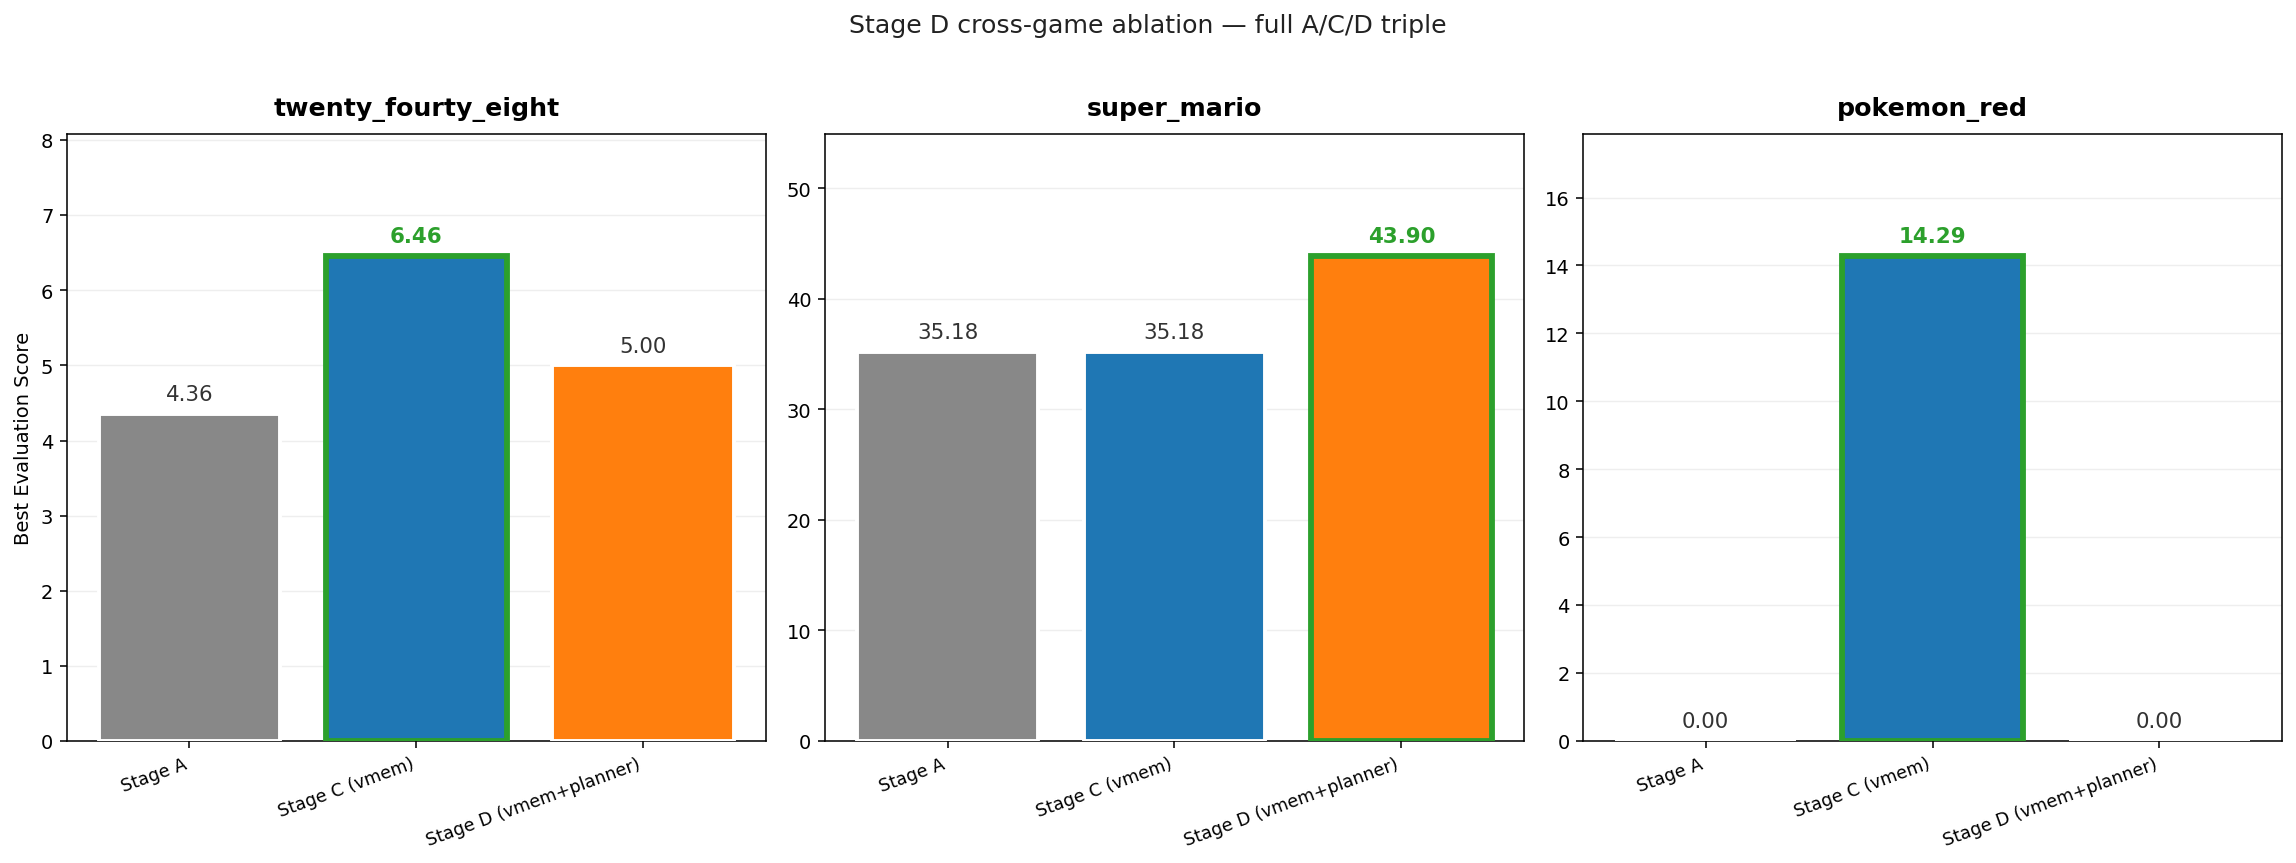
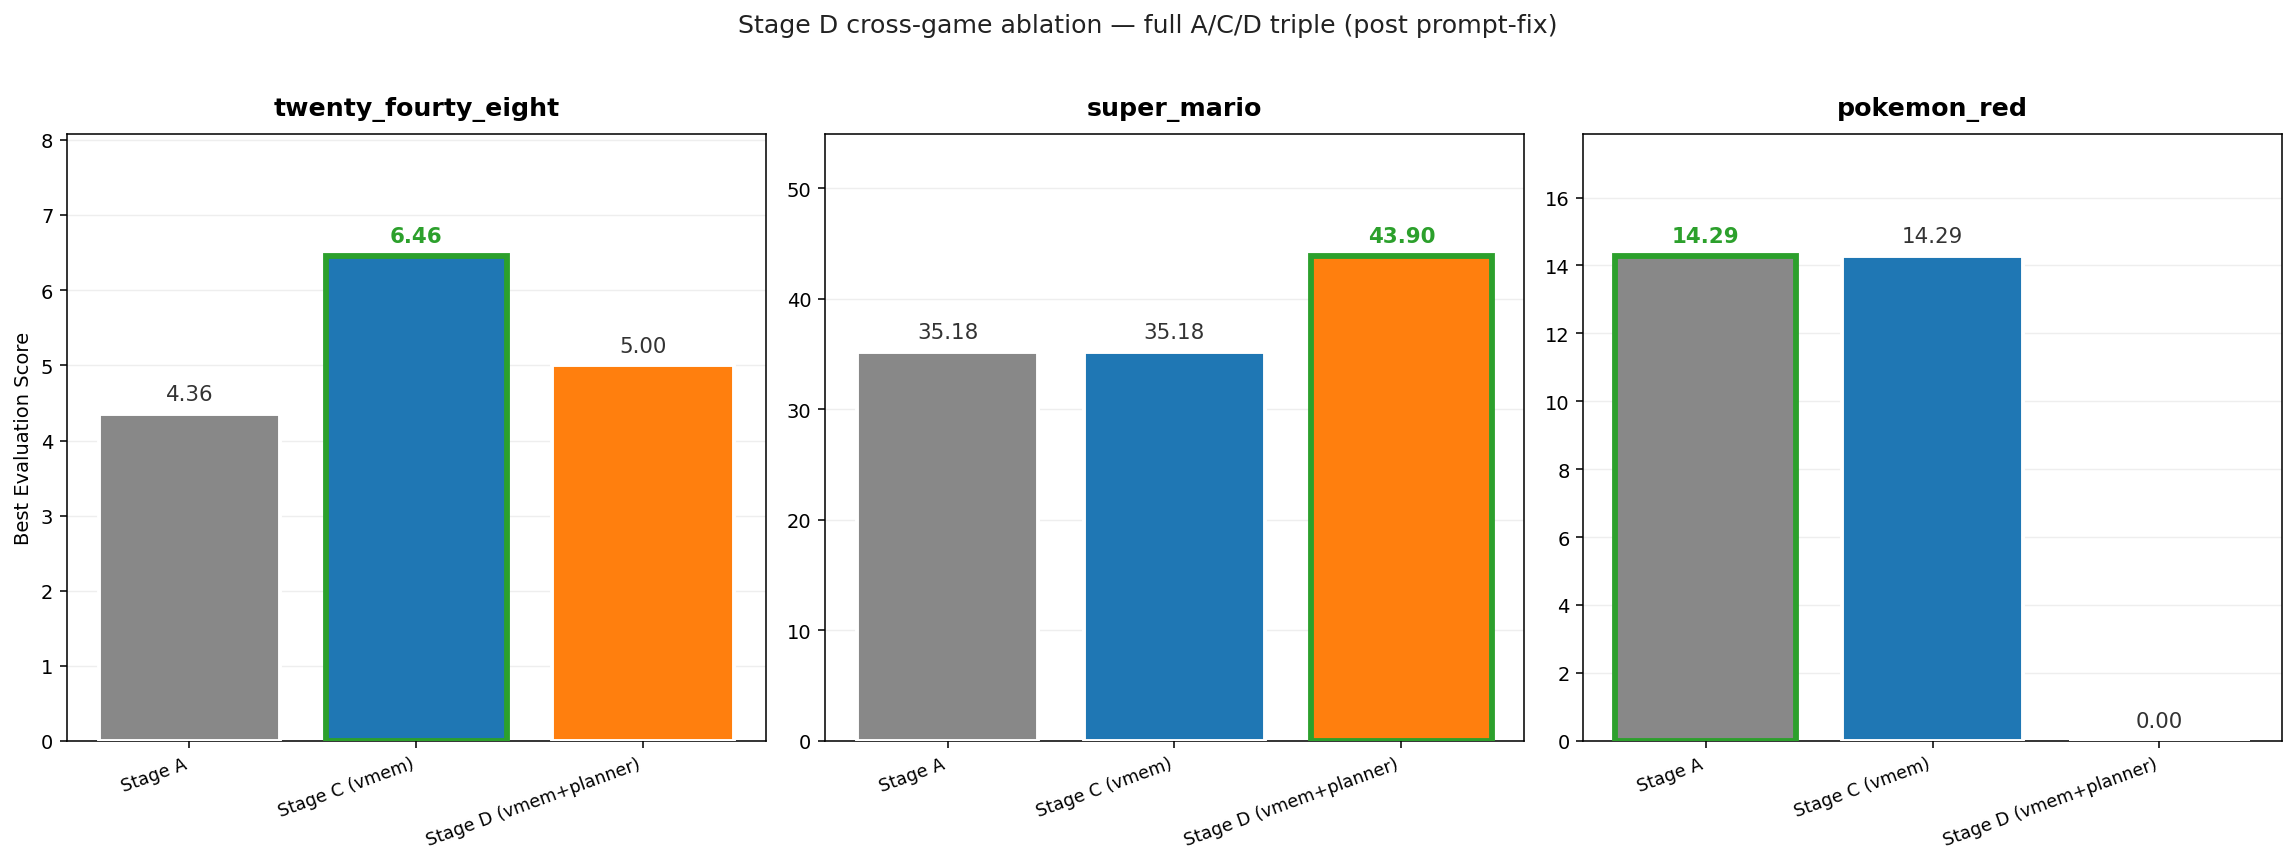
experiments(stage-d): final v6 cross-game scoreboard — pokemon prompt-fix unlock
Final pokemon ablation lands. Stage A (gemma_stage_a, post warp-fix +
exit-vs-staircase prompt hint) reaches 14.29 with n=2 identical reproducibility.
Stage D (gemma with planner) crashes to 0.00 with n=2 identical — the planner
actively breaks pokemon, mirroring the 2048 regression pattern.

Final cross-game verdict matrix:

| Game    | Stage A | Stage C   | Stage D | Best stage  |
|---------|---------|-----------|---------|-------------|
| 2048    | 4.36    | 6.46  ✅  | 5.00    | C (vmem)    |
| mario   | 35.18   | 35.18     | 43.90 ✅| D (planner) |
| pokemon | 14.29 ✅| 14.29     | 0.00    | A (neither) |

Each game has a different optimal stack — no overlap. vmem helps only 2048
(1 of 3); planner helps only mario (1 of 3). Per-game routing is now the
locked finding.

Adds:
- experiments/{harness_check_pokemon_v4, pokemon_check_v7}/gemma/results.jsonl
  — 2 iters each, identical scores
- docs/experiments/gemma/plots/stage_d_cross_game.png — regenerated with
  v4/v7 pokemon tags, all 9 cells filled

Also wires orak's experiments/autoresearch.py to the autoresearch package
v0.9.0's new retrospective module:
- ORAK_RETROSPECTIVE_DETECTORS = [silent_kill, triage_threshold_mismatch,
  eval_score_plateau] (3 of 5 builtins; skip bucketed_failure +
  gradient_collapse — orak doesn't emit rubric data or train models).
- ORAK_RETROSPECTIVE_KWARGS{"triage_threshold_mismatch":
  {"min_first_score_step": 150}} for pokemon's sparse-reward profile.
[…]

Changed region(s): [[0.6803, 0.241, 0.8968, 0.8737], [0.3402, 0.0, 0.6803, 0.0603]]

diff --git a/experiments/autoresearch.py b/experiments/autoresearch.py
@@ -43,9 +43,38 @@ from experiments.experiment_progress import (
     plot_progress,
 )
 
+# Post-iter retrospective hook (autoresearch >= 0.8.0). Detectors run after each
+# iter writes its results.jsonl row and surface failure-mode findings into the
+# next iter's description (warn) or stop the sweep (block). See PR #28 v6 audit
+# for the orak-side findings that motivated the package detectors.
+from autoresearch.retrospective import (
+    BUILTIN_DETECTORS,
+    Finding,
+    attach_findings_to_row,
+    audit_iter,
+    filter_by_severity,
+    format_markdown,
+)
+
 ROOT = Path(__file__).parent.parent
 CONFIGS_DIR = ROOT / "configs"
 AGENTS_DIR = ROOT / "agents"
+
+# Detectors relevant to orak's game-agent sweep loop. Skipped from the
+# package's BUILTIN_DETECTORS:
+#   - bucketed_failure: orak doesn't emit per-row JSONL rubric dumps
+#   - gradient_collapse: orak doesn't run an RL training loop (LLM is frozen)
+ORAK_RETROSPECTIVE_DETECTORS = [
+    BUILTIN_DETECTORS["silent_kill"],
+    BUILTIN_DETECTORS["triage_threshold_mismatch"],
+    BUILTIN_DETECTORS["eval_score_plateau"],
+]
+# Per-game tuning of detector thresholds. Pokemon's first scoring event lands
+# at step 100-150 so the global plateau-at-80 default would false-positive
+# every iter; bump it to 200 for pokemon. Other games keep the defaults.
+ORAK_RETROSPECTIVE_KWARGS = {
+    "triage_threshold_mismatch": {"min_first_score_step": 150},
+}
 
 # Marker to track auto-appended prompt hints (avoid duplication)
 AUTORESEARCH_MARKER = "# [autoresearch]"
@@ -928,6 +957,77 @@ def log_run_results(
     return results
 
 
+def _run_post_iter_retrospective(
+    *,
+    tag: str,
+    iteration: int,
+    games: list[str],
+    config_name: str | None,
+    log_path: Path | None,
+) -> list[Finding]:
+    """Run autoresearch retrospective detectors against the iter we just logged.
+
+    Per-game: load the row we just appended (last entry filtered by game) and
+    its prior history, run the orak-tuned detector panel, write findings into
+    `experiments/<tag>[/<config>]/retrospective_E<iter>_<game>.md`, mutate the
+    row in `results.jsonl` to attach summaries.
+
+    Returns the union of findings across all games so the caller can decide
+    whether to fold warns into the next iter's description (self-correcting
+    loop) or stop the sweep on a `block`.
+    """
+    findings_all: list[Finding] = []
+    rows = load_results(tag=tag, config_name=config_name)
+    out_dir = ROOT / "experiments" / tag
+    if config_name:
+        out_dir = out_dir / config_name
+
+    for game in games:
+        # Latest row for this game = the one we just logged.
+        per_game = [r for r in rows if r.get("game") == game]
+        if not per_game:
+            continue
+        cur_row = per_game[-1]
+        history = per_game[:-1]
+
+        findings = audit_iter(
+            results_row=cur_row,
+            log_path=log_path,
+            per_row_jsonl_path=None,  # orak doesn't emit per-row rubric dumps
+            history=history,
+            detectors=ORAK_RETROSPECTIVE_DETECTORS,
+            detector_kwargs=ORAK_RETROSPECTIVE_KWARGS,
+        )
+        if not findings:
+            continue
+
+        findings_all.extend(findings)
+        attach_findings_to_row(cur_row, findings)
+
+        # Write the markdown sibling for human review.
+        md_path = out_dir / f"retrospective_E{iteration}_{game}.md"
+        md_path.parent.mkdir(parents=True, exist_ok=True)
+        md_path.write_text(format_markdown(findings, iter_id=iteration))
+
+        # Re-write the row in results.jsonl with the attached findings. We
+        # have to rewrite the whole file since results are append-only JSONL.
+        results_file = out_dir / "results.jsonl"
+        if results_file.exists():
+            all_rows = [
+                json.loads(line) for line in results_file.read_text().splitlines() if line.strip()
+            ]
+            # Match by (game, experiment) — the most recent row for this game
+            # was just appended by log_experiment.
+            target_iter = cur_row.get("experiment")
+            for i, r in enumerate(all_rows):
+                if r.get("game") == game and r.get("experiment") == target_iter:
+                    all_rows[i] = cur_row
+                    break
+            results_file.write_text("\n".join(json.dumps(r) for r in all_rows) + "\n")
+
+    return findings_all
+
+
 @app.command()
 def log_run(
     run_id: str = typer.Option(..., help="Run ID from game_logs (e.g. 20260422_213143)"),
@@ -953,6 +1053,7 @@ def run(
     patience: int = typer.Option(5, help="Stop sweep if no game improves over best-so-far for N consecutive iterations (0 = disable)"),
     time_budget_min: float = typer.Option(0.0, help="Stop sweep after this many wall-clock minutes (0 = disable)"),
     config_name: str = typer.Option("", help="Per-config sub-dir (e.g. 'gemma' or 'qwen'). Empty = flat experiments/<TAG>/. Set to isolate parallel sweeps in experiments/<TAG>/<CONFIG_NAME>/."),
+    log_path: str = typer.Option("", "--log-path", help="Path to the sweep's stdout log file. Enables silent_kill / triage_threshold_mismatch retrospective detectors that need to grep log lines."),
 ):
     """Run the autoresearch optimisation loop."""
     cfg = config_name or None
@@ -960,7 +1061,9 @@ def run(
     print(f"Games: {games}")
     if cfg:
         print(f"Per-config sub-dir: experiments/{tag}/{cfg}/")
-    print(f"Early stopping: patience={patience} iters, time_budget={time_budget_min}min\n")
+    print(f"Early stopping: patience={patience} iters, time_budget={time_budget_min}min")
+    log_path_obj = Path(log_path) if log_path else None
+    print(f"Retrospective: detectors={[d.name for d in ORAK_RETROSPECTIVE_DETECTORS]}, log_path={log_path_obj}\n")
 
     all_results = load_results(tag=tag, config_name=cfg)
     sweep_start = time.time()
@@ -969,6 +1072,10 @@ def run(
     # checkpoint and carry procedures/meta-procedures forward — biggest lever
     # for cross-iter consistency.
     prev_run_id: str | None = None
+    # Warn-level findings from the previous iter; prepended to this iter's
+    # description so the autoresearch parameter proposer (and any downstream
+    # plot reader) sees the context. Self-correcting loop pattern.
+    pending_warns: list[str] = []
 
     for iteration in range(max_iterations):
         # Budget stop: hit the wall-clock cap
@@ -1015,6 +1122,11 @@ def run(
             desc_parts.append("; ".join(param_summaries))
         else:
             desc_parts.append("no param changes")
+        if pending_warns:
+            # Surface previous iter's retrospective warnings into this iter's
+            # description so reviewers see them inline on the chart / PR.
+            desc_parts.append("retrospective: " + "; ".join(pending_warns[:3]))
+            pending_warns = []
         description = " | ".join(desc_parts)
         print(f"\nDescription: {description}")
 
@@ -1067,6 +1179,27 @@ def run(
         kill_reason = _triage_check(run_id, games, best) if run_id else None
         if kill_reason:
             _relabel_last_as_early_kill(tag, kill_reason, games, triggered_game=kill_reason.split(':')[0].strip())
+
+        # Post-iter retrospective: run failure-mode detectors against the row
+        # we just logged. Warn-level findings get prepended to next iter's
+        # description; block-level stops the sweep entirely.
+        findings = _run_post_iter_retrospective(
+            tag=tag,
+            iteration=iteration + 1,
+            games=games,
+            config_name=cfg,
+            log_path=log_path_obj,
+        )
+        if findings:
+            print(f"\n--- Retrospective ({len(findings)} finding(s)) ---")
+            for f in findings:
+                print(f"  [{f.severity.upper()}] [{f.detector}] {f.summary}")
+            blocks = filter_by_severity(findings, "block")
+            if blocks:
+                print(f"\nEarly stop: retrospective produced {len(blocks)} block-level finding(s).")
+                break
+            for f in filter_by_severity(findings, "warn"):
+                pending_warns.append(f"{f.detector}={f.suggested_action}")
 
         # Reload results for next iteration
         all_results = load_results(tag=tag, config_name=cfg)
